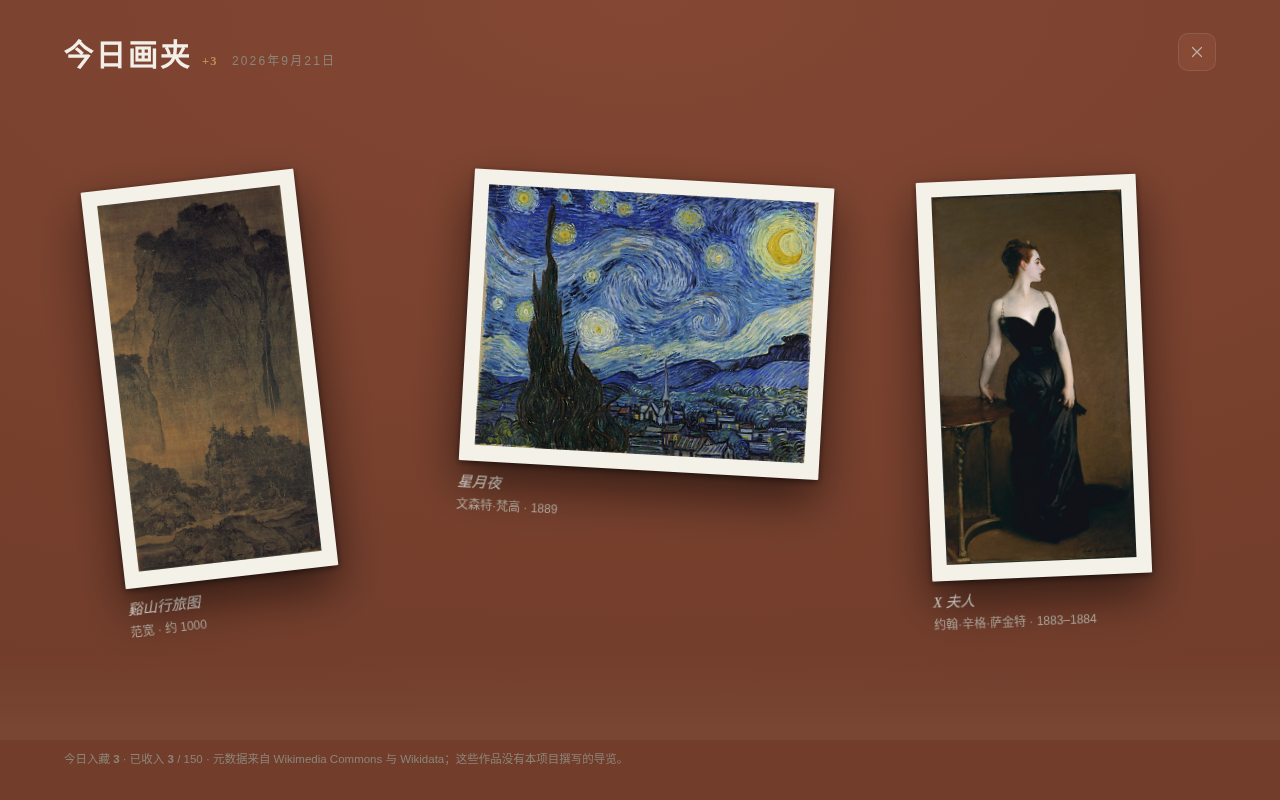
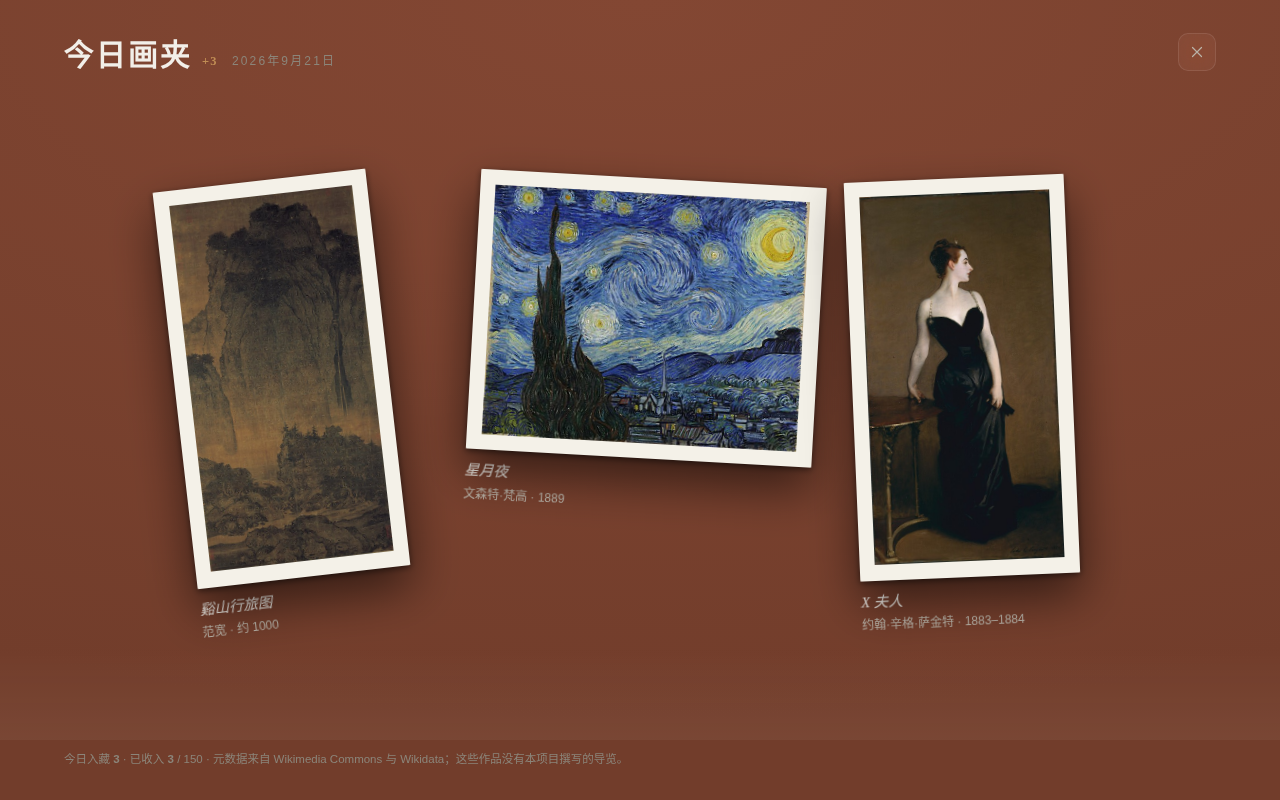
v1.22.2：今日画夹三幅能摊在一排了
画夹的卡片是 <figure>，浏览器默认给它左右各 40px 的外边距，
三张卡平白多占 240px，1280、1440 宽的窗口里第三幅就折到第二排，
被页脚挡住一半。

- 卡片左右的外边距清零；上下那 1em 留着，转了角的卡片，顶角靠它才不会被台面上沿裁掉
- 左右的缝从 2.8vw 放宽到 4vw（28–72px）：相邻两张一左一右地斜着，
  顶角会往一块儿凑，原来的缝太窄，一去掉外边距就碰上了
- 三幅时卡片上限收到 27vw，三张横幅加两道缝正好是台面的宽；窄屏那条规则照旧盖住它
- README 与主页的今日画夹截图按修好后的样子重拍

Changed region(s): [[0.0625, 0.1875, 0.9062, 0.8125]]

diff --git a/corridor-newtab/src/gallery.css b/corridor-newtab/src/gallery.css
@@ -1752,10 +1752,11 @@ body[data-rvlight="1"] #revealSheet .iconbtn:hover{color:#1a1714;background:rgba
 .rv-x{margin-left:auto;align-self:center}
 /* 画夹一次可以摊到五幅，窄窗口里它们会换行、竖幅又特别高 ——
    所以台面自己要能滚：align-content 用 safe center，摊得下时居中，
-   摊不下时从顶上开始排，不会把第一排顶到看不见的地方去。 */
+   摊不下时从顶上开始排，不会把第一排顶到看不见的地方去。
+   左右的缝比上下宽：相邻两张一左一右地斜着，顶角会往一块儿凑，缝窄了就碰上。 */
 .rv-stage{flex:1;min-height:0;position:relative;display:flex;
   align-items:flex-start;align-content:safe center;justify-content:center;
-  gap:clamp(16px,2.8vw,46px);padding:10px clamp(24px,5vw,72px) 22px;perspective:1400px;flex-wrap:wrap;
+  gap:clamp(16px,2.8vw,46px) clamp(28px,4vw,72px);padding:10px clamp(24px,5vw,72px) 22px;perspective:1400px;flex-wrap:wrap;
   overflow-y:auto;overscroll-behavior:contain;
   scrollbar-width:thin;scrollbar-color:var(--hair-strong) transparent}
 .rv-stage::-webkit-scrollbar{width:9px}
@@ -1769,8 +1770,11 @@ body[data-rvlight="1"] #revealSheet .iconbtn:hover{color:#1a1714;background:rgba
   background:linear-gradient(to top,rgba(255,246,230,.055),transparent 78%)}
 
 /* 每一幅像刚从画夹里抽出来，落到台面上。
-   宽度由画自己定：竖幅按高度收窄，横幅顶到上限，于是一排里各归各的比例。 */
-.rvcard{position:relative;flex:0 0 auto;width:auto;min-width:148px;max-width:min(30vw,360px);cursor:pointer;
+   宽度由画自己定：竖幅按高度收窄，横幅顶到上限，于是一排里各归各的比例。
+   卡片是 <figure>，浏览器默认给它 margin:1em 40px。左右那 40px 不在设计里 ——
+   三张卡平白多占 240px，1280 宽的窗口就摊不下三幅；上下那 1em 留着，
+   转了角的卡片，顶角靠它才不会被台面的上沿裁掉。 */
+.rvcard{position:relative;flex:0 0 auto;width:auto;min-width:148px;max-width:min(30vw,360px);margin-inline:0;cursor:pointer;
   transform-origin:50% 92%;opacity:0;
   animation:rvDeal .78s cubic-bezier(.16,.9,.3,1) forwards}
 .rvcard:nth-child(1){animation-delay:.06s}
@@ -1795,12 +1799,15 @@ body[data-rvlight="1"] #revealSheet .iconbtn:hover{color:#1a1714;background:rgba
   font-weight:500;margin-bottom:3px}
 .rvcard:hover .mat{transform:translateY(-4px);box-shadow:0 4px 10px rgba(0,0,0,.5),0 30px 60px rgba(0,0,0,.6)}
 .rvcard .mat{transition:transform .3s var(--ease),box-shadow .3s var(--ease)}
-/* 摊得多就各自收窄一点。上限只写在卡片上 —— 画与展签都跟着卡片走 */
+/* 摊得多就各自收窄一点。上限只写在卡片上 —— 画与展签都跟着卡片走。
+   三幅收到 27vw：三张横幅加两道缝正好是台面的宽，1280 宽也摆得进一排 */
+.rv-stage[data-n="3"] .rvcard{max-width:min(27vw,360px)}
 .rv-stage[data-n="4"] .rvcard{max-width:min(22vw,290px)}
 .rv-stage[data-n="5"] .rvcard{max-width:min(18vw,250px)}
 .rv-stage[data-n="4"] .rvcard img,.rv-stage[data-n="5"] .rvcard img{max-height:42vh}
 @media (max-width:760px){
   .rvcard,
+  .rv-stage[data-n="3"] .rvcard,
   .rv-stage[data-n="4"] .rvcard,
   .rv-stage[data-n="5"] .rvcard{max-width:min(62vw,320px)}
 }

diff --git a/corridor-newtab/README.md b/corridor-newtab/README.md
@@ -1,6 +1,6 @@
 # 长廊 Corridor · 艺术新标签页
 
-<sub>v1.22.1</sub>
+<sub>v1.22.2</sub>
 
 把每一个新标签页变成一面美术馆的墙。106 幅公有领域杰作（默认展出 93 幅），双语策展导览，
 五种呈现模式，可自动或手动换画，图片抓取后存入本地、离线可用，每天还会自己再添几幅。
@@ -967,7 +967,7 @@ corridor-newtab/
 
 ## 十二、版本与版权
 
-**长廊 Corridor** v1.22.1
+**长廊 Corridor** v1.22.2
 
 作者 **Charles Chern**（**@yearnst**）
 

diff --git a/CHANGELOG.md b/CHANGELOG.md
@@ -7,6 +7,12 @@
 
 ---
 
+## [1.22.2] — 2026-09-21
+
+修了今日画夹的一处排版：三幅作品现在能摊在同一排。
+
+* 画夹里每张卡片两侧原本多出一截空白，在 1280、1440 这类常见的窗口宽度下，三幅常常挤成两排，第三幅被页脚挡住一半。现在去掉了这截空白，三幅可以并排摊开；卡片之间也多留了一点缝，斜着摆的两张不会碰到角。
+
 ## [1.22.1] — 2026-09-20
 
 调了两处默认值，让新装后的画面更干净一些。
